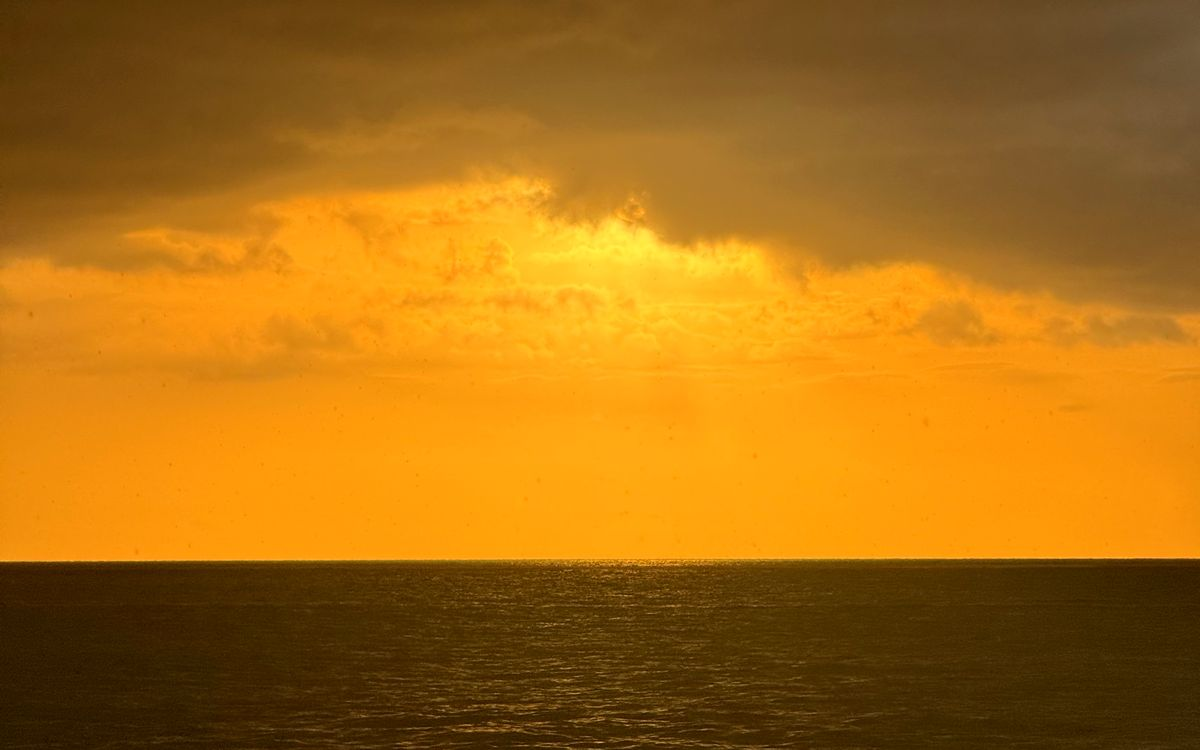
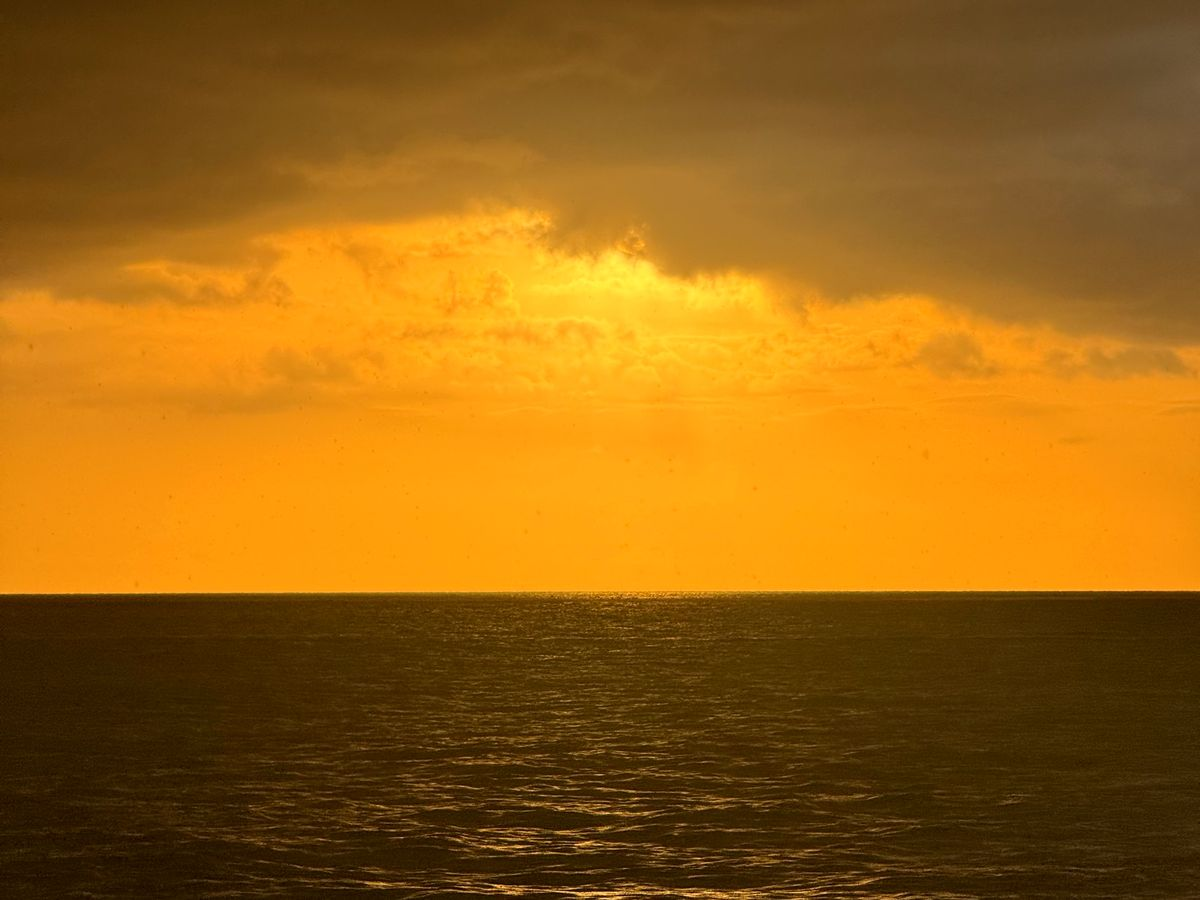
Wellness photos: hero crop shows the catamaran and sun reflections, sunrise-yoga frame includes the girl and mats, strip switched to catamaran shots, rhythm cards less cropped

diff --git a/wellness-yachting-lipari/index.html b/wellness-yachting-lipari/index.html
@@ -230,7 +230,7 @@
       /* ── картки формату: горизонтальні (фото ліворуч) — вдвічі менше скролу ── */
       .wl-format{grid-template-columns:1fr;gap:.8rem}
       .wl-card{flex-direction:row;align-items:stretch}
-      .wl-card__img{width:38%;flex:none;aspect-ratio:auto}
+      .wl-card__img{width:42%;flex:none;aspect-ratio:auto}
       .wl-card__img img{height:100%}
       .wl-card__body{padding:.9rem 1rem;flex:1;display:flex;flex-direction:column;justify-content:center}
       .wl-card__body .k{margin-bottom:.3rem;font-size:.66rem}
@@ -500,9 +500,9 @@
     <div class="wl-strip">
       <h3>Подивись, де ти житимеш наступні сім днів</h3>
             <div class="wl-strip__track">
-        <figure><img src="../assets/wellness/strip-sun.jpg" srcset="../assets/wellness/strip-sun-m.jpg 820w, ../assets/wellness/strip-sun.jpg 1400w" sizes="(max-width:600px) 80vw, 26vw" alt="Дівчина на носі катамарана" loading="lazy" decoding="async" /><figcaption>Місце для засмаги</figcaption></figure>
-        <figure><img src="../assets/wellness/strip-water.jpg" srcset="../assets/wellness/strip-water-m.jpg 820w, ../assets/wellness/strip-water.jpg 1400w" sizes="(max-width:600px) 80vw, 26vw" alt="Рука в бірюзовій воді біля борту" loading="lazy" decoding="async" /><figcaption>Море за два кроки</figcaption></figure>
-        <figure><img src="../assets/wellness/strip-breakfast.jpg" srcset="../assets/wellness/strip-breakfast-m.jpg 820w, ../assets/wellness/strip-breakfast.jpg 1400w" sizes="(max-width:600px) 80vw, 26vw" alt="Сніданок із круасаном на борту" loading="lazy" decoding="async" /><figcaption>Сніданки з видом</figcaption></figure>
+        <figure><img src="../assets/wellness/strip-sun.jpg" srcset="../assets/wellness/strip-sun-m.jpg 820w, ../assets/wellness/strip-sun.jpg 1400w" sizes="(max-width:600px) 80vw, 26vw" alt="Засмага на сітці катамарана" loading="lazy" decoding="async" /><figcaption>Місце для засмаги</figcaption></figure>
+        <figure><img src="../assets/wellness/strip-water.jpg" srcset="../assets/wellness/strip-water-m.jpg 820w, ../assets/wellness/strip-water.jpg 1400w" sizes="(max-width:600px) 80vw, 26vw" alt="Катамаран з води — море за два кроки" loading="lazy" decoding="async" /><figcaption>Море за два кроки</figcaption></figure>
+        <figure><img src="../assets/wellness/strip-breakfast.jpg" srcset="../assets/wellness/strip-breakfast-m.jpg 820w, ../assets/wellness/strip-breakfast.jpg 1400w" sizes="(max-width:600px) 80vw, 26vw" alt="Сніданок на борту катамарана" loading="lazy" decoding="async" /><figcaption>Сніданки на борту</figcaption></figure>
         <figure><img src="../assets/wellness/strip-quiet.jpg" srcset="../assets/wellness/strip-quiet-m.jpg 820w, ../assets/wellness/strip-quiet.jpg 1400w" sizes="(max-width:600px) 80vw, 26vw" alt="Книга й кава на палубі" loading="lazy" decoding="async" /><figcaption>Місце для тиші</figcaption></figure>
         <figure><img src="../assets/wellness/strip-evening.jpg" srcset="../assets/wellness/strip-evening-m.jpg 820w, ../assets/wellness/strip-evening.jpg 1400w" sizes="(max-width:600px) 80vw, 26vw" alt="Вечір на палубі катамарана" loading="lazy" decoding="async" /><figcaption>Вечори на борту</figcaption></figure>
       </div>
